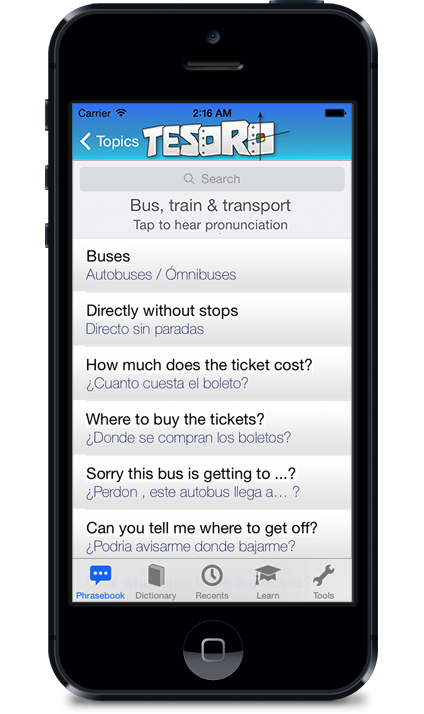
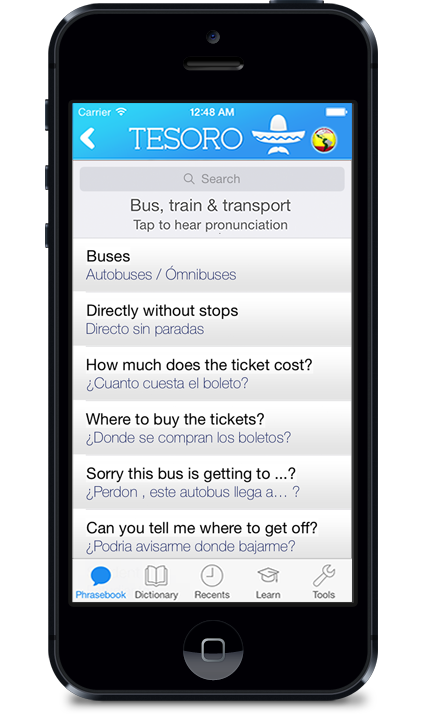
Tesoro final branding update and new screenshots

Changed region(s): [[0.1533, 0.1232, 0.8278, 0.2465], [0.184, 0.7703, 0.7052, 0.8627], [0.7358, 0.7703, 0.7972, 0.8627]]

diff --git a/index.html b/index.html
@@ -304,7 +304,7 @@
 					
 										
 					<!-- SCREENS ROW -->	
-					<!--
+					
 					<div  id="screenshots-holder2" class="row">
 								
 						
@@ -315,7 +315,7 @@
 								
 								<div class="img-cover">
 									<a class="image_zoom" href="img/thumbs/gallery_2x/gallery5.png" title="Screenshot Image #5"></a>
-									<h3>Screenshot Title</h3>
+									<h3>Language selection</h3>
 								</div>
 							</div>
 						</div>
@@ -328,7 +328,7 @@
 								
 								<div class="img-cover">
 									<a class="image_zoom" href="img/thumbs/gallery_2x/gallery6.png" title="Screenshot Image #6"></a>
-									<h3>Screenshot Title</h3>
+									<h3>Learning and tools</h3>
 								</div>
 							</div>
 						</div>
@@ -341,7 +341,7 @@
 								
 								<div class="img-cover">
 									<a class="image_zoom" href="img/thumbs/gallery_2x/gallery7.png" title="Screenshot Image #7"></a>
-									<h3>Screenshot Title</h3>
+									<h3>portuguese topics</h3>
 								</div>
 							</div>
 						</div>
@@ -354,13 +354,12 @@
 								
 								<div class="img-cover">
 									<a class="image_zoom" href="img/thumbs/gallery_2x/gallery8.png" title="Screenshot Image #8"></a>
-									<h3>Screenshot Title</h3>
+									<h3>portuguese phrases</h3>
 								</div>
 							</div>
 						</div>
 						
 					</div>	
-					-->
 
 				</div>
 			</section>	 <!-- END SCREENS SECTION  -->
@@ -522,9 +521,8 @@
 						<div id="footer_icons" class="col-md-6">																	
 							<ul class="footer-socials pull-right clearfix">
 								<li><a class="foo_social ico-facebook" href="https://www.facebook.com/tesoroapp"><i class="fa fa-facebook"></i></a></li>
-								<li><a class="foo_social ico-google-plus" href="http://www.google.com/+tesoro"><i class="fa fa-google-plus"></i></a></li>
+								<li><a class="foo_social ico-google-plus" href="http://www.google.com/+Tesoroapp"><i class="fa fa-google-plus"></i></a></li>
 								<li><a class="foo_social ico-apple" href="http://bit.ly/tesoroapp"><i class="fa fa-apple"></i></a></li>
-								<a href="https://plus.google.com/109545235560840107389" rel="publisher">Google+</a> <!-- google+ -->
 							<!--
 								<li><a class="foo_social ico-linkedin" href="#"><i class="fa fa-linkedin"></i></a></li>
 								<li><a class="foo_social ico-dribbble" href="#"><i class="fa fa-dribbble"></i></a></li>
